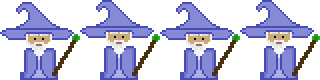
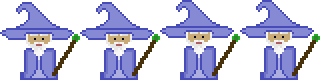
Wizard texture fixes and inventory bugfix

Changed region(s): [[0.25, 0.0, 0.75, 0.7], [0.5938, 0.725, 0.625, 0.75], [0.3438, 0.725, 0.375, 0.75]]

diff --git a/Inventory.cs b/Inventory.cs
@@ -59,11 +59,11 @@ namespace Quest
             HoverSlot = 0;
             PixelOperator = Game.Content.Load<SpriteFont>("Fonts/PixelOperator");
         }
-        public void Update(MouseState PreviousMouseState, MouseState MouseState)
+        public void Update(MouseState previousMouseState, MouseState mouseState)
         {
             // Inputs
-            PreviousMouseState = PreviousMouseState;
-            MouseState = MouseState;
+            PreviousMouseState = previousMouseState;
+            MouseState = mouseState;
 
             // Scroll slot
             if (MouseState.ScrollWheelValue > PreviousMouseState.ScrollWheelValue)

diff --git a/NPC.cs b/NPC.cs
@@ -54,7 +54,7 @@ namespace Quest
         public void Draw()
         {
             // Npc
-            Rectangle source = new(new((int)(Game.Time * 3) % tilemap.X * tilesize.X, 0), tilesize);
+            Rectangle source = new(new((int)(Game.Time * 2) % tilemap.X * tilesize.X, 0), tilesize);
             Vector2 origin = new(tilesize.X / 2, tilesize.Y);
             Rectangle rect = new(((Location.ToVector2() + Constants.HalfVec) * Constants.TileSize - Game.Camera + Constants.Middle).ToPoint(), tilesize);
             DrawTexture(Game.Batch, Texture, rect, color: TextureColor, scale: new(Scale), source:source, origin:origin);
